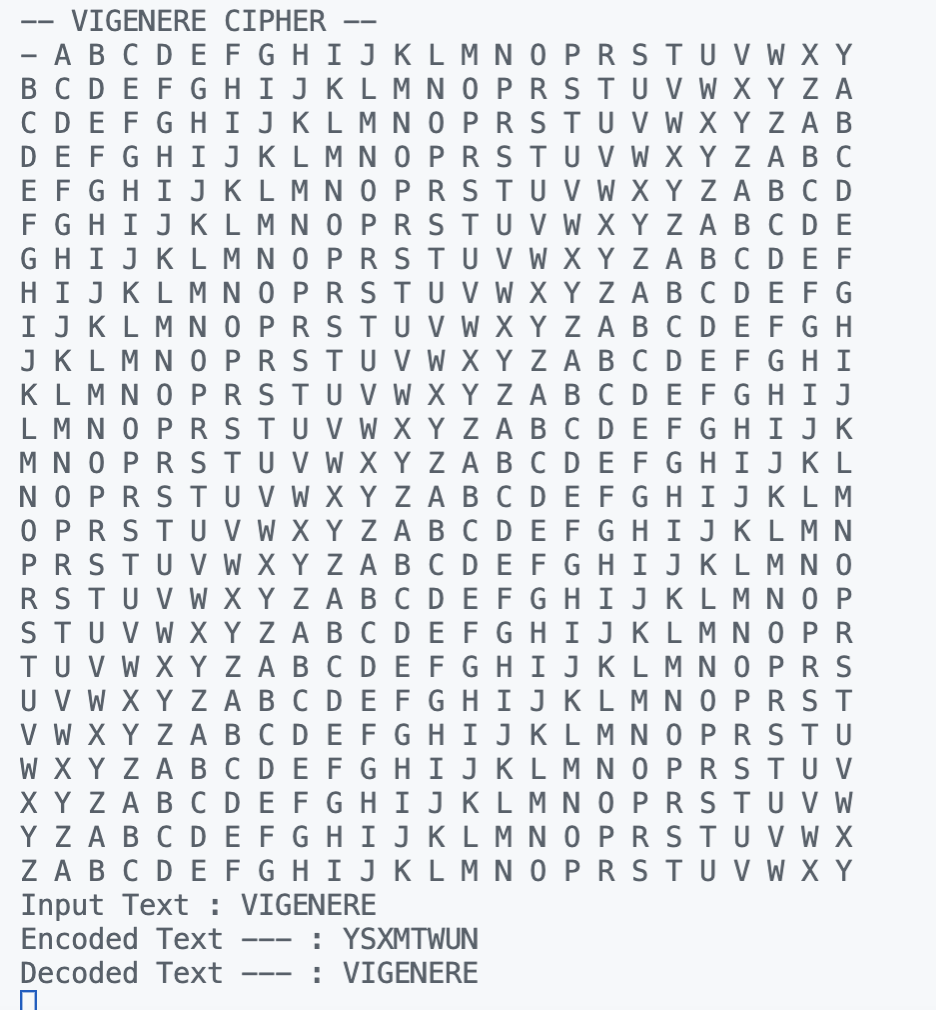
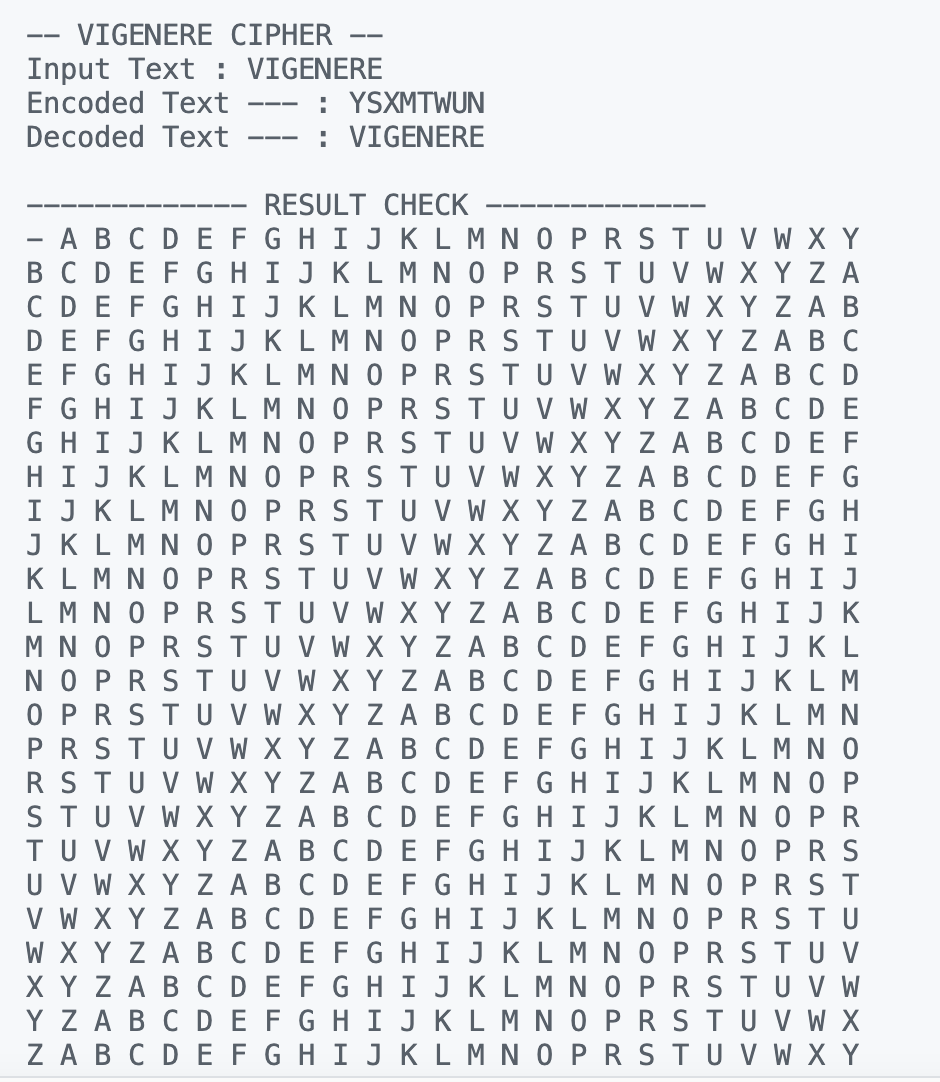
generate makefile and update output

Changed region(s): [[0.0, 0.0, 0.9295, 1.0]]

diff --git a/main.cpp b/main.cpp
@@ -21,7 +21,7 @@ public:
 
 		// default values
 		char tempAlphabet[] = "ABCDEFGHIJKLMNOPQRSTUVWXYZ";
-		tempAlphabet[strlen(tempAlphabet)] = '\0';
+		tempAlphabet[std::strlen(tempAlphabet)] = '\0';
 
 		char *temp = tempAlphabet;
 		this->alphabet = temp;
@@ -118,6 +118,18 @@ public:
 		return decodedText;
 	}
 
+	void printTable()
+	{
+		for (int i = 0; i < strlen(alphabet); i++)
+		{
+			for (int j = 0; j < strlen(alphabet); j++)
+			{
+				cout << vigenere[i][j] << " ";
+			}
+			cout << endl;
+		}
+	}
+
 private:
 	char *alphabet;
 	char *cipherWord;
@@ -143,15 +155,6 @@ private:
 				vigenere[i][k] = alphabet[letterIndex];
 				letterIndex++;
 			}
-		}
-
-		for (int i = 0; i < strlen(alphabet); i++)
-		{
-			for (int j = 0; j < strlen(alphabet); j++)
-			{
-				cout << vigenere[i][j] << " ";
-			}
-			cout << endl;
 		}
 	}
 
@@ -194,6 +197,11 @@ int main()
 
 	cout << "Encoded Text --- : " << encodedText << endl;
 	cout << "Decoded Text --- : " << crypt.decodeVigenere(encodedText) << endl;
+
+	cout << endl
+		 << "------------- RESULT CHECK -------------" << endl;
+
+	crypt.printTable();
 
 	// wait process
 	int a;

diff --git a/README.md b/README.md
@@ -7,6 +7,10 @@
 ---
 ## compile
 ```
+make
+```
+or
+```
 g++ crypt.cpp -o crypt.out
 ./crypt.out
 ```
